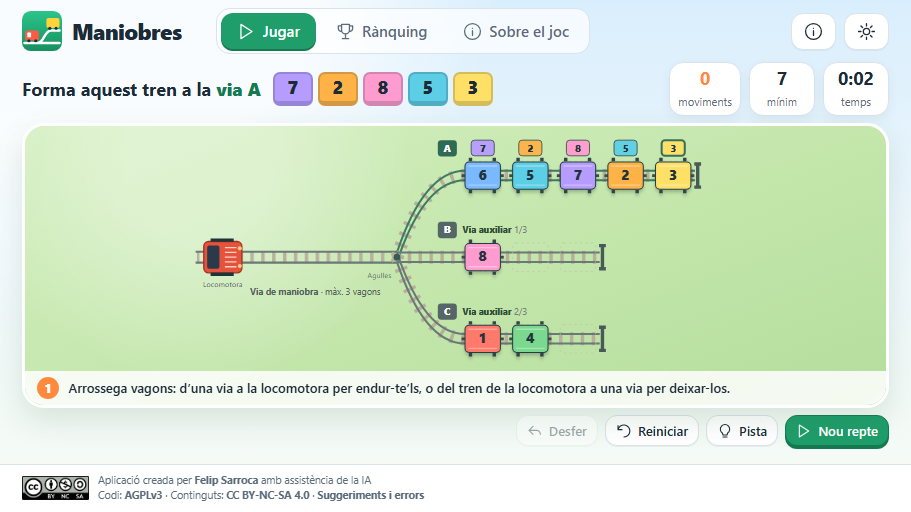
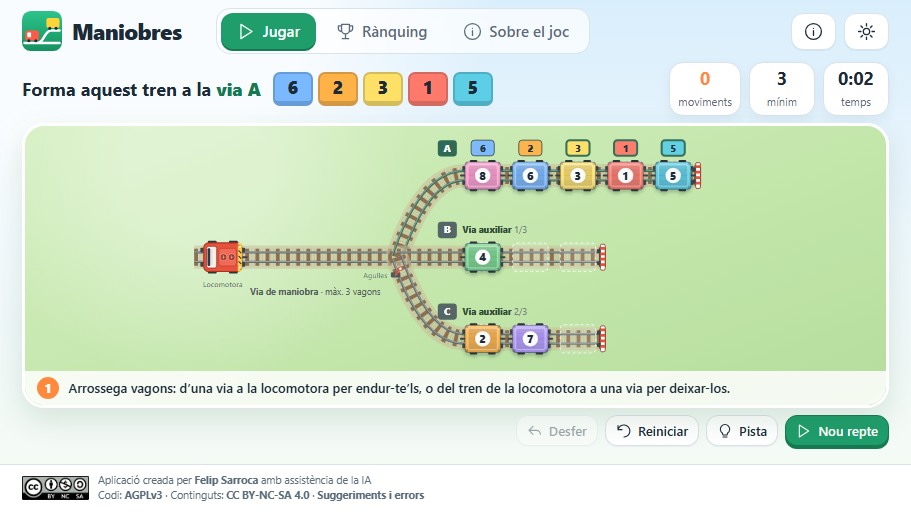
Maniobres 2.5: estació, vagons i locomotora redibuixats
Rails a ample constant a les corbes, balast, travesses i topalls; vagons i
locomotora vistos des de dalt amb més detall; sacsejada de la locomotora a
cada maniobra. Corregit: tocar un vagó de la via B seleccionava la C.

Changed region(s): [[0.2151, 0.25, 0.7684, 0.7188], [0.3996, 0.125, 0.5532, 0.2188], [0.2766, 0.125, 0.3688, 0.2188]]

diff --git a/Maniobres/src/app.js b/Maniobres/src/app.js
@@ -310,10 +310,42 @@ function render() {
   else if (view === "about") renderAbout();
   else renderRanking();
 }
+// Vagó de mercaderies vist des de dalt: caixa oberta amb taulons, topalls, enganxalls i rodes.
 function wagon(w, x, y, extra = "") {
   w = game.labels?.[w - 1] ?? w;
-  return `<g class="wagon" data-wagon="${w}" ${extra} transform="translate(${x} ${y})"><path d="M-5 0h62" stroke="#3d4b4c" stroke-width="4"/><rect x="0" y="-20" width="52" height="40" rx="6" fill="${colors[w]}" stroke="#263e43" stroke-width="1.5"/><path d="M5-14h42M5 14h42" stroke="#fff5" stroke-width="2"/><path d="M8-21v-5m35 5v-5M8 21v5m35-5v5" stroke="#344349" stroke-width="5"/><text x="26" y="6" text-anchor="middle" font-family="system-ui" font-size="21" font-weight="800" fill="#21333b">${w}</text></g>`;
+  return `<g class="wagon" data-wagon="${w}" ${extra} transform="translate(${x} ${y})"><path d="M-6 0h6M52 0h6" stroke="#3b4547" stroke-width="3" stroke-linecap="round"/><g fill="#3b4547"><rect x="-4" y="-14" width="4" height="7" rx="1.5"/><rect x="-4" y="7" width="4" height="7" rx="1.5"/><rect x="52" y="-14" width="4" height="7" rx="1.5"/><rect x="52" y="7" width="4" height="7" rx="1.5"/></g><g fill="#2c3638"><rect x="7" y="-23" width="11" height="5" rx="1.5"/><rect x="34" y="-23" width="11" height="5" rx="1.5"/><rect x="7" y="18" width="11" height="5" rx="1.5"/><rect x="34" y="18" width="11" height="5" rx="1.5"/></g><rect x="0" y="-20" width="52" height="40" rx="5" fill="${colors[w]}"/><rect x="0" y="-20" width="52" height="40" rx="5" fill="url(#wagon-shade)" stroke="#1d2b3870" stroke-width="1.5"/><rect x="4.5" y="-15.5" width="43" height="31" rx="2.5" fill="#1d2b381f" stroke="#ffffff70" stroke-width="1.2"/><path d="M5 -8h42M5 0h42M5 8h42" stroke="#1d2b3814" stroke-width="1"/><g fill="#1d2b3840"><rect x="0.8" y="-19.2" width="3.4" height="3.4" rx="1"/><rect x="47.8" y="-19.2" width="3.4" height="3.4" rx="1"/><rect x="0.8" y="15.8" width="3.4" height="3.4" rx="1"/><rect x="47.8" y="15.8" width="3.4" height="3.4" rx="1"/></g><circle cx="26" cy="0" r="11.5" fill="#fffffff2" stroke="#1d2b3826"/><text x="26" y="6" text-anchor="middle" font-family="system-ui" font-size="16.5" font-weight="900" fill="#1d2b38">${w}</text></g>`;
 }
+// Via amb balast, travesses i rails a ample constant (desplaçats sobre la normal, també a les corbes).
+function trackPath(pts, rail = "#5f6c6d") {
+  const n = pts.map((_, i) => {
+      const p = pts[Math.max(0, i - 1)],
+        q = pts[Math.min(pts.length - 1, i + 1)],
+        dx = q[0] - p[0],
+        dy = q[1] - p[1],
+        l = Math.hypot(dx, dy) || 1;
+      return [-dy / l, dx / l];
+    }),
+    line = (d) =>
+      "M" + pts.map((p, i) => `${(p[0] + n[i][0] * d).toFixed(1)} ${(p[1] + n[i][1] * d).toFixed(1)}`).join("L"),
+    c = line(0);
+  return `<path d="${c}" fill="none" stroke="#cbbd9b" stroke-opacity=".55" stroke-width="34" stroke-linejoin="round"/><path d="${c}" fill="none" stroke="#b9a988" stroke-opacity=".5" stroke-width="26" stroke-linejoin="round" stroke-dasharray="1 3"/><path d="${c}" fill="none" stroke="#8d6e4f" stroke-width="25" stroke-dasharray="5.5 9.5" stroke-linejoin="bevel"/><path d="${line(-7)}${line(7)}" fill="none" stroke="${rail}" stroke-width="3.4" stroke-linejoin="round"/><path d="${line(-7.6)}${line(6.4)}" fill="none" stroke="#ffffff8c" stroke-width="1" stroke-linejoin="round"/>`;
+}
+function curvePoints(x0, y0, cx, cy, x1, y1, end) {
+  const pts = [];
+  for (let i = 0; i <= 28; i++) {
+    const t = i / 28,
+      u = 1 - t;
+    pts.push([u * u * x0 + 2 * u * t * cx + t * t * x1, u * u * y0 + 2 * u * t * cy + t * t * y1]);
+  }
+  if (end > x1) pts.push([end, y1]);
+  return pts;
+}
+// Topall de final de via: travessa amb franges vermelles i blanques.
+function bufferStop(x, y) {
+  return `<g transform="translate(${x} ${y})"><rect x="-1" y="-15" width="10" height="30" rx="2" fill="#5b4636"/><rect x="1" y="-19" width="7" height="38" rx="2" fill="#fff" stroke="#9b2a1c" stroke-width="1.2"/><path d="M1 -13h7M1 -5h7M1 3h7M1 11h7" stroke="#e5533d" stroke-width="4"/><rect x="-4" y="-12" width="5" height="6" rx="1.5" fill="#3b4547"/><rect x="-4" y="6" width="5" height="6" rx="1.5" fill="#3b4547"/></g>`;
+}
+// Locomotora dièsel vista des de dalt: cabina, capó llarg amb ventiladors, fars i topalls.
+const LOCO = `<g class="loco-body"><g fill="#3b4547"><rect x="56" y="-14" width="5" height="7" rx="1.5"/><rect x="56" y="7" width="5" height="7" rx="1.5"/><rect x="-5" y="-14" width="5" height="7" rx="1.5"/><rect x="-5" y="7" width="5" height="7" rx="1.5"/></g><path d="M56 0h7" stroke="#3b4547" stroke-width="3" stroke-linecap="round"/><g fill="#2c3638"><rect x="6" y="-24" width="13" height="5" rx="1.5"/><rect x="37" y="-24" width="13" height="5" rx="1.5"/><rect x="6" y="19" width="13" height="5" rx="1.5"/><rect x="37" y="19" width="13" height="5" rx="1.5"/></g><rect x="0" y="-21" width="56" height="42" rx="7" fill="#e5533d" stroke="#a63322" stroke-width="1.6"/><path d="M50 -21h4a2 2 0 0 1 2 2v38a2 2 0 0 1-2 2h-4z" fill="#ffd34d"/><path d="M51 -18l4 4M51 -10l4 4M51 -2l4 4M51 6l4 4M51 14l4 4" stroke="#2c3638" stroke-width="1.6"/><rect x="4" y="-16" width="15" height="32" rx="3" fill="#f8efe9" stroke="#a63322" stroke-width="1.2"/><rect x="5.5" y="-13" width="4" height="26" rx="1.5" fill="#2b3a4a"/><path d="M12 -12v24" stroke="#d9c9bf" stroke-width="1"/><rect x="22" y="-13" width="26" height="26" rx="4" fill="#f06a55" stroke="#c13d29" stroke-width="1"/><g fill="#9b2f20" stroke="#ffc7ba" stroke-width=".8"><circle cx="29" cy="0" r="5"/><circle cx="41" cy="0" r="5"/></g><path d="M26 0h6M29 -3v6M38 0h6M41 -3v6" stroke="#ffc7ba" stroke-width=".8"/><circle cx="53" cy="-15" r="2.4" fill="#fff6c9" stroke="#c9a227" stroke-width=".8"/><circle cx="53" cy="15" r="2.4" fill="#fff6c9" stroke="#c9a227" stroke-width=".8"/></g>`;
 function board(s = game.state, c = config(), interactive = true) {
   const narrow = innerWidth < 650,
     ys = [100, 220, 340],
@@ -330,15 +362,15 @@ function board(s = game.state, c = config(), interactive = true) {
   let a = `<svg class="board" data-pt="${pt}" viewBox="0 36 ${width} 340" preserveAspectRatio="xMidYMid meet" role="group" aria-label="Estació. Via de maniobra: ${lineTxt(s[0])}. ${s
     .slice(1)
     .map((x, i) => `Via ${"ABC"[i]}: ${lineTxt(x)}`)
-    .join(". ")}"><defs><pattern id="sleepers" width="16" height="18" patternUnits="userSpaceOnUse"><path d="M7 0v18" stroke="#baafa0" stroke-width="5"/></pattern></defs>`;
+    .join(". ")}"><defs><linearGradient id="wagon-shade" x1="0" y1="0" x2="0" y2="1"><stop offset="0" stop-color="#fff" stop-opacity=".28"/><stop offset=".45" stop-color="#fff" stop-opacity="0"/><stop offset="1" stop-color="#1d2b38" stop-opacity=".18"/></linearGradient></defs>`;
   // Via de maniobra
-  a += `<path class="maniobra-halo" d="M10 220H${pt}" stroke="#8bd7bd55" stroke-width="66" stroke-linecap="round"/><path d="M6 211H${pt}v18H6z" fill="url(#sleepers)"/><path d="M4 212H${pt}M4 228H${pt}" stroke="#697976" stroke-width="3"/><text x="${headX}" y="276" fill="#53625c" font-family="system-ui" font-size="13" font-weight="700">${narrow ? "Maniobra" : "Via de maniobra"} <tspan font-weight="400">· màx. ${c.h}${narrow ? "" : " vagons"}</tspan></text>`;
+  a += `<path class="maniobra-halo" d="M10 220H${pt}" stroke="#8bd7bd55" stroke-width="66" stroke-linecap="round"/>${trackPath([[2, 220], [pt, 220]])}<text x="${headX}" y="276" fill="#53625c" font-family="system-ui" font-size="13" font-weight="700">${narrow ? "Maniobra" : "Via de maniobra"} <tspan font-weight="400">· màx. ${c.h}${narrow ? "" : " vagons"}</tspan></text>`;
   for (let i = 1; i <= 3; i++) {
     const y = ys[i - 1],
       cap = c.caps[i - 1],
       end = tx + cap * step - 12,
       dest = i === 1;
-    a += `<g class="siding ${selected === i ? "selected" : ""} ${dest ? "dest" : ""}" ${interactive ? `data-via="${i}" tabindex="0" role="button" aria-label="Via ${"ABC"[i - 1]}, ${s[i].length} de ${cap} vagons"` : ""}><path class="track-halo" d="M${pt} 220 Q${cv} ${y} ${tx} ${y}H${end}" fill="none" stroke="#f2b35d66" stroke-width="62" stroke-linecap="round"/><path d="M${pt} 220 Q${cv} ${y} ${tx} ${y}H${end}" fill="none" stroke="#b9ae9a" stroke-width="19" stroke-dasharray="5 11"/><path d="M${pt} 213 Q${cv} ${y - 7} ${tx} ${y - 7}H${end}M${pt} 227 Q${cv} ${y + 7} ${tx} ${y + 7}H${end}" fill="none" stroke="${dest ? "#3f7a63" : "#697976"}" stroke-width="3"/><path d="M${end + 4} ${y - 17}v34M${end - 1} ${y - 17}h10M${end - 1} ${y + 17}h10" stroke="#485a57" stroke-width="5"/><rect x="${tx - 40}" y="${y - 52}" width="28" height="24" rx="5" fill="${dest ? "#2f6a55" : "#546766"}"/><text x="${tx - 26}" y="${y - 35}" fill="white" text-anchor="middle" font-size="15" font-weight="800" font-family="system-ui">${"ABC"[i - 1]}</text>`;
+    a += `<g class="siding ${selected === i ? "selected" : ""} ${dest ? "dest" : ""}" ${interactive ? `data-via="${i}" tabindex="0" role="button" aria-label="Via ${"ABC"[i - 1]}, ${s[i].length} de ${cap} vagons"` : ""}><path class="track-halo" d="M${pt} 220 Q${cv} ${y} ${tx} ${y}H${end}" fill="none" stroke="#f2b35d66" stroke-width="62" stroke-linecap="round"/>${trackPath(curvePoints(pt, 220, cv, y, tx, y, end), dest ? "#3d6f5c" : "#5f6c6d")}${bufferStop(end, y)}<rect x="${tx - 40}" y="${y - 52}" width="28" height="24" rx="5" fill="${dest ? "#2f6a55" : "#546766"}"/><text x="${tx - 26}" y="${y - 35}" fill="white" text-anchor="middle" font-size="15" font-weight="800" font-family="system-ui">${"ABC"[i - 1]}</text>`;
     if (dest) {
       // El tren objectiu, plaça per plaça, just a sobre de la via A.
       for (let k = 0; k < c.t; k++) {
@@ -349,7 +381,7 @@ function board(s = game.state, c = config(), interactive = true) {
     } else
       a += `<text x="${tx - 4}" y="${y - 35}" class="track-label" font-family="system-ui" font-size="13">Via auxiliar <tspan fill="#738079" font-weight="400">${s[i].length}/${cap}</tspan></text>`;
     for (let k = 0; k < cap; k++)
-      a += `<rect x="${tx + k * step}" y="${y - 21}" width="52" height="42" rx="5" fill="none" stroke="#c6beb0" stroke-dasharray="3 5"/>`;
+      a += `<rect x="${tx + k * step}" y="${y - 21}" width="52" height="42" rx="6" fill="#ffffff1f" stroke="#ffffffb3" stroke-width="1.5" stroke-dasharray="4 4"/>`;
     s[i].forEach(
       (w, j) =>
         (a += cutTarget(
@@ -364,7 +396,7 @@ function board(s = game.state, c = config(), interactive = true) {
     a += "</g>";
   }
   a += cutTarget(
-    `<g transform="translate(${loco} 220)"><rect x="0" y="-23" width="56" height="46" rx="7" fill="#e5533d" stroke="#a63322" stroke-width="2"/><rect x="5" y="-17" width="18" height="34" rx="3" fill="#2b3a4a"/><path d="M31-14h17m-17 7h17m-17 7h17m-17 7h17m-17 7h17" stroke="#ffd2c4" stroke-width="2"/><path d="M10-25h34M10 25h34" stroke="#1d3439" stroke-width="5"/><circle cx="53" cy="-13" r="3" fill="#f6cd82"/><circle cx="53" cy="13" r="3" fill="#f6cd82"/><text x="28" y="44" text-anchor="middle" font-family="system-ui" font-size="11" fill="#53625c">Locomotora</text></g>`,
+    `<g class="loco" transform="translate(${loco} 220)">${LOCO}<text x="28" y="44" text-anchor="middle" font-family="system-ui" font-size="11" fill="#53625c">Locomotora</text></g>`,
     selected,
     0,
     s,
@@ -383,7 +415,7 @@ function board(s = game.state, c = config(), interactive = true) {
         interactive,
       )),
   );
-  a += `<circle cx="${pt}" cy="220" r="5" fill="#355c52"/><text x="${pt - 8}" y="250" text-anchor="end" font-family="system-ui" font-size="11" fill="#64736b">Agulles</text></svg>`;
+  a += `<g transform="translate(${pt - 2} 246)"><rect x="-7" y="-4" width="14" height="8" rx="2" fill="#4d5b5c"/><path d="M0 0l7 -9" stroke="#e5533d" stroke-width="3" stroke-linecap="round"/><circle cx="7" cy="-9" r="2.6" fill="#fff" stroke="#e5533d" stroke-width="1.4"/></g><text x="${pt - 14}" y="250" text-anchor="end" font-family="system-ui" font-size="11" fill="#64736b">Agulles</text></svg>`;
   return a;
 }
 // Amb una via triada, tocar un vagó vol dir «torna amb els vagons fins a aquest».
@@ -457,11 +489,16 @@ function doMove(v, k) {
               "translate($1px,$2px)",
             );
           el.animate([{ transform: css(before) }, { transform: css(after) }], {
-            duration: 320,
-            easing: "ease-in-out",
+            duration: 340,
+            easing: "cubic-bezier(.45,.05,.3,1)",
           });
         }
       });
+    if (!prefs.reduced)
+      document.querySelector("#main .board .loco-body")?.animate(
+        [{ transform: "translateX(0)" }, { transform: "translateX(5px)" }, { transform: "translateX(-1px)" }, { transform: "translateX(0)" }],
+        { duration: 360, easing: "ease-out" },
+      );
   } catch (e) {
     toast(e.message);
   }
@@ -668,7 +705,7 @@ function showPlayer(uid) {
 }
 const trainArt = `<svg class="hero-art" viewBox="0 0 220 150" aria-hidden="true"><path d="M0 118h220" stroke="#ffffffaa" stroke-width="4"/><path d="M0 126h220" stroke="#ffffff66" stroke-width="10" stroke-dasharray="4 10"/><g transform="translate(6 76)"><rect width="52" height="38" rx="7" fill="#e5533d" stroke="#fff" stroke-width="3"/><rect x="6" y="6" width="16" height="26" rx="3" fill="#2b3a4a"/><circle cx="48" cy="10" r="3" fill="#ffe066"/></g>${[2, 4, 6, 7].map((w, i) => `<g transform="translate(${66 + i * 38} 80)"><rect width="34" height="32" rx="5" fill="${colors[w]}" stroke="#fff" stroke-width="3"/><text x="17" y="22" text-anchor="middle" font-size="16" font-weight="900" fill="#1d2b38" font-family="system-ui">${i + 1}</text></g>`).join("")}<path d="M150 20l8 16 18 2-13 12 4 18-17-9-17 9 4-18-13-12 18-2z" fill="#ffe066"/></svg>`;
 function renderAbout() {
-  $("#main").innerHTML = `<div class="page"><section class="hero about-hero"><div><div class="eyebrow">Sobre el joc</div><h1>Pocs vagons, poques vies, molt de cap</h1><p>Maniobres és un trencaclosques de lògica: has de formar un tren en l’ordre exacte movent els vagons amb una sola locomotora i molt poc espai. Sembla fàcil, però cada moviment compta.</p></div>${trainArt}</section><div class="about-grid"><section class="panel about-card"><span class="ic" style="background:#ff8a3d">${icon("route")}</span><h3>D’on ve</h3><p>Es basa en l’Inglenook Sidings, un clàssic del modelisme ferroviari britànic ideat per Alan Wright el 1979. Reprodueix una feina real: en una estació petita, el maquinista ha d’ordenar els vagons d’un tren de mercaderies amb vies curtes i sense espai de sobres.</p></section><section class="panel about-card"><span class="ic" style="background:#1f9d6b">${icon("play")}</span><h3>Les regles</h3><ul class="rules-list"><li><b>1</b>Forma a la via A el tren de dalt, en el mateix ordre.</li><li><b>2</b>La locomotora arrossega com a molt tres vagons.</li><li><b>3</b>Només pots agafar els vagons més propers a les agulles.</li><li><b>4</b>Cada anada i tornada de la locomotora és un moviment.</li></ul></section><section class="panel about-card"><span class="ic" style="background:#7ab8ff">${icon("bulb")}</span><h3>Què s’hi aprèn</h3><p>A planificar abans d’actuar, a pensar enrere des de l’objectiu, a dividir un problema gran en passos petits i a no rendir-se quan un camí no funciona. És pensament computacional i combinatòria sense fórmules.</p></section><section class="panel about-card"><span class="ic" style="background:#b69cff">${icon("trophy")}</span><h3>Com puntua</h3><p>Cada puzle té un mínim de moviments calculat per ordinador. Si el resols sense pistes, guanyes 10 punts per cada moviment del mínim i en perds 5 per cada moviment de més. El rànquing comprova cada resultat tornant a jugar la solució.</p></section><section class="panel about-card wide"><h3>L’estació en xifres</h3><div class="facts"><div><strong>8</strong><small>vagons a l’estació</small></div><div><strong>5</strong><small>formen el tren</small></div><div><strong>356.160</strong><small>situacions diferents</small></div><div><strong>17</strong><small>moviments, el repte més llarg</small></div></div></section><section class="panel about-card wide credits"><p>Versió 2.4.0 · Creat per <a href="https://ja.cat/felipsarroca" target="_blank" rel="noopener noreferrer">Felip Sarroca</a> amb assistència de la IA · Codi AGPLv3 i continguts CC BY-NC-SA 4.0 · <a href="https://github.com/felipsarroca/jocs/tree/main/Maniobres" target="_blank" rel="noopener noreferrer">Codi font</a> · <a href="https://github.com/felipsarroca/jocs/issues/new?template=maniobres.yml" target="_blank" rel="noopener noreferrer">Suggeriments i errors</a>. El rànquing només desa el nom de jugador i les solucions: no cal correu ni contrasenya.</p></section></div></div>`;
+  $("#main").innerHTML = `<div class="page"><section class="hero about-hero"><div><div class="eyebrow">Sobre el joc</div><h1>Pocs vagons, poques vies, molt de cap</h1><p>Maniobres és un trencaclosques de lògica: has de formar un tren en l’ordre exacte movent els vagons amb una sola locomotora i molt poc espai. Sembla fàcil, però cada moviment compta.</p></div>${trainArt}</section><div class="about-grid"><section class="panel about-card"><span class="ic" style="background:#ff8a3d">${icon("route")}</span><h3>D’on ve</h3><p>Es basa en l’Inglenook Sidings, un clàssic del modelisme ferroviari britànic ideat per Alan Wright el 1979. Reprodueix una feina real: en una estació petita, el maquinista ha d’ordenar els vagons d’un tren de mercaderies amb vies curtes i sense espai de sobres.</p></section><section class="panel about-card"><span class="ic" style="background:#1f9d6b">${icon("play")}</span><h3>Les regles</h3><ul class="rules-list"><li><b>1</b>Forma a la via A el tren de dalt, en el mateix ordre.</li><li><b>2</b>La locomotora arrossega com a molt tres vagons.</li><li><b>3</b>Només pots agafar els vagons més propers a les agulles.</li><li><b>4</b>Cada anada i tornada de la locomotora és un moviment.</li></ul></section><section class="panel about-card"><span class="ic" style="background:#7ab8ff">${icon("bulb")}</span><h3>Què s’hi aprèn</h3><p>A planificar abans d’actuar, a pensar enrere des de l’objectiu, a dividir un problema gran en passos petits i a no rendir-se quan un camí no funciona. És pensament computacional i combinatòria sense fórmules.</p></section><section class="panel about-card"><span class="ic" style="background:#b69cff">${icon("trophy")}</span><h3>Com puntua</h3><p>Cada puzle té un mínim de moviments calculat per ordinador. Si el resols sense pistes, guanyes 10 punts per cada moviment del mínim i en perds 5 per cada moviment de més. El rànquing comprova cada resultat tornant a jugar la solució.</p></section><section class="panel about-card wide"><h3>L’estació en xifres</h3><div class="facts"><div><strong>8</strong><small>vagons a l’estació</small></div><div><strong>5</strong><small>formen el tren</small></div><div><strong>356.160</strong><small>situacions diferents</small></div><div><strong>17</strong><small>moviments, el repte més llarg</small></div></div></section><section class="panel about-card wide credits"><p>Versió 2.5.0 · Creat per <a href="https://ja.cat/felipsarroca" target="_blank" rel="noopener noreferrer">Felip Sarroca</a> amb assistència de la IA · Codi AGPLv3 i continguts CC BY-NC-SA 4.0 · <a href="https://github.com/felipsarroca/jocs/tree/main/Maniobres" target="_blank" rel="noopener noreferrer">Codi font</a> · <a href="https://github.com/felipsarroca/jocs/issues/new?template=maniobres.yml" target="_blank" rel="noopener noreferrer">Suggeriments i errors</a>. El rànquing només desa el nom de jugador i les solucions: no cal correu ni contrasenya.</p></section></div></div>`;
 }
 function tutorial(step = 0) {
   tutorialStep = step;
@@ -1030,7 +1067,17 @@ document.addEventListener("click", async (e) => {
       difficulty = b.dataset.difficulty;
       dialog.close();
       handle("new");
-    } else if (b.dataset.via) select(+b.dataset.via);
+    } else if (b.dataset.via) {
+      // Les zones de les vies se superposen a les agulles: amb el punter, la via és la més propera.
+      let v = +b.dataset.via;
+      const svg = b.ownerSVGElement;
+      if (e.detail && svg) {
+        const p = svgPoint(svg, e);
+        if (p.x >= +svg.dataset.pt - 10)
+          v = [100, 220, 340].reduce((best, y, i) => (Math.abs(p.y - y) < Math.abs(p.y - [100, 220, 340][best - 1]) ? i + 1 : best), 1);
+      }
+      select(v);
+    }
     else if (b.dataset.cut !== undefined) doMove(selected, +b.dataset.cut);
   } catch (e) {
     toast("No s’ha pogut completar l’acció: " + e.message);

diff --git a/Maniobres/sw.js b/Maniobres/sw.js
@@ -1,5 +1,5 @@
 // SPDX-License-Identifier: AGPL-3.0-or-later
-const CACHE = "maniobres-v2.4.0-1";
+const CACHE = "maniobres-v2.5.0-1";
 const FILES = [
   "./",
   "./index.html",

diff --git a/Maniobres/CHANGELOG.md b/Maniobres/CHANGELOG.md
@@ -1,5 +1,12 @@
 # Registre de canvis
 
+## 2.5.0 · 20 de novembre de 2026
+
+- Estació redibuixada: vies amb balast, travesses de fusta i rails a ample constant també a les corbes (abans les vies A i C s'estrenyien); topalls de final de via vermells i blancs i una palanca d'agulles.
+- Vagons nous vistos des de dalt: caixa oberta amb taulons, topalls, enganxalls, rodes i el número en un disc blanc. Locomotora dièsel nova amb cabina, capó amb ventiladors, fars i franges d'avís.
+- La locomotora fa una petita sacsejada a cada maniobra, a més del lliscament dels vagons (sense animacions si es demana moviment reduït).
+- Corregit: tocar un vagó de la via B seleccionava la via C, perquè la zona de C tapava les agulles. Ara es tria la via més propera al punt tocat.
+
 ## 2.4.0 · 20 de novembre de 2026
 
 - Fitxa de cada jugador: toca'l al rànquing i hi veuràs els puzles resolts (dificultat, data, moviments respecte del mínim, temps i punts), el millor temps i la mitjana de moviments de més. El botó ▷ obre el mateix puzle per intentar-lo.
